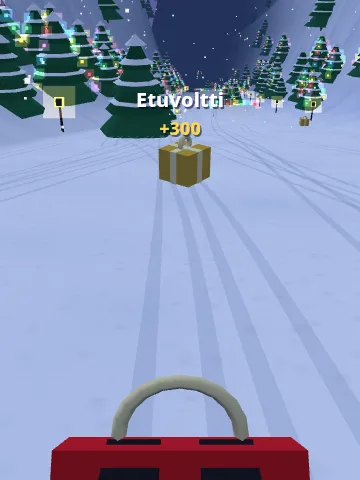
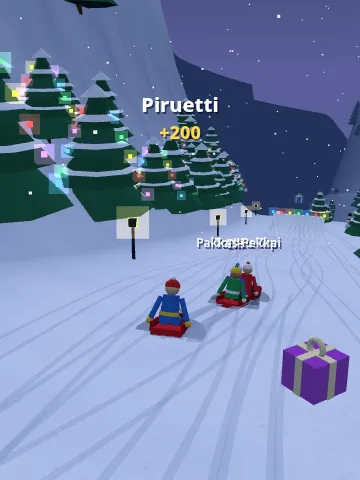
Pulkkamäki v4: the chase camera keeps up down a drop; diagrams, server test, thumb (#517)

diff --git a/games/pulkkamaki/v4/draw3d.js b/games/pulkkamaki/v4/draw3d.js
@@ -551,7 +551,10 @@ function chaseCamera(hill, me, cam, dt, still) {
   want[1] = Math.max(want[1], groundAt(hill, bs, bx) + 1.4);
   if (!V3.cam) V3.cam = want.slice();
   const k = still ? 1 : Math.min(1, dt * 6);
-  for (let i = 0; i < 3; i++) V3.cam[i] += (want[i] - V3.cam[i]) * (i === 1 ? Math.min(1, dt * 3.5) || 1 : k);
+  // Height follows softly, but the faster the further off it is (#517: down a drop or a steep
+  // stretch the sled falls metres in a moment, and a slow camera lost it under the screen's edge).
+  const ky = still ? 1 : Math.min(1, dt * (3.5 + 1.5 * Math.abs(want[1] - V3.cam[1])));
+  for (let i = 0; i < 3; i++) V3.cam[i] += (want[i] - V3.cam[i]) * (i === 1 ? ky : k);
   cam.position.set(...V3.cam);
   const ls = d.s + 9, lx = d.x + Math.sin(dir) * 9;
   cam.lookAt(...hillPoint(hill, ls, lx, Math.max(d.y - 1.5, groundAt(hill, ls, lx)) + 0.6));

diff --git a/docs/diagrams/tuloslistat.md b/docs/diagrams/tuloslistat.md
@@ -62,7 +62,7 @@ flowchart TD
 
 ## Boxes
 
-- **AiPelitScores.submit**: `public/scores.js`; a game version loads it with `data-game`, `data-order` and `data-corner`, and calls `submit(score)` when a round ends (Sormiskeitti v5, Voimistelu v3, Puhelinkoppi v2, Hiihto v2 and v3 (v3: classic times on `taso-N`, skating times on their own lists `luistelu-N`, both allowed by `GAMES` in `server/api.js`), Piano v1, Aitajuoksu v1 (v3: one list per race, 100 m hurdles still `main`, the others `200-aidat`, `400-aidat` and `<100|200|400>-tasainen`, allowed by `GAMES` in `server/api.js`), Kaaosrata v1, Trampoliini v1, Orava v1, Tikanheitto v1 (Pistekisa points only, no level; v2 also Mökkitikka on its own list `mokki`, chosen with `board()`; v7's harder throw (#400) on `mokki2`, the shelf's first, and `kisa2`, and the old lists renamed "Vanha Mökkitikka" and "Vanha Pistekisa"), Skuutti v1 (the most points in one minute's run, no level), Keihäänheitto v1 (the longest throw of a meet in metres, level `taso`), Korkeushyppy v1 (the highest bar cleared in a meet in metres, level `taso`), Seiväshyppy v1 (the highest bar cleared in a meet in metres, level `taso`), Moukarinheitto v1 (the longest throw of a meet in metres, level `taso`), Saappaanheitto v1 (#503: the longest boot throw of a meet in metres, level `taso`), Kuulantyöntö v1 (#268: the longest put of a meet in metres, level `taso`), Pituushyppy v1 (the longest legal jump of a meet in metres, level `taso`), Mäkihyppy v1 (#269: the total points of a two-round ski-jumping meet, level `taso`; v2's four-hill week (#283) on its own list `viikko`, chosen with `board()`; v9's two-hill week (#387) on `viikko2`, Mäkiviikko, the shelf's first, and `viikko` renamed "Mäkiviikko, 4 mäkeä"), Vuoristorata v1–v4 and v6+ (the fastest ride on `taso-N`) and v5 (#459: the most hands-up points on `elamys-N`), Yöajo v1 (the most points on one leg of the night drive, one list per leg `osa-N`, level: legs driven; `osa-1` to `osa-11` from v15, #440; the endless night's `loputon` from v16), Pilkkiminen v1 (#271: the biggest catch of a five-minute contest in grams, shown as kg, level `taso`; v2 and v3 the same list), Pasianssi v1 (the fastest completion time, with separate `veto1` and `veto3` lists for one- and three-card draw), Pulkkamäki v1 (#475: the most points in one run down a hill, one list per hill `maki-1` to `maki-3`, level: hills open, `auki`), Jäälautta v1 (#478: matches won alone against the computer, on `main`, level: floes open, `auki`; a room match sends nothing), Pomppukeppi v1 (#482: the most points in one erä alone, one list per board `kentta-1` to `kentta-3`, level: boards open, `auki`; a room match sends nothing), Lattia on laavaa v1 (#488: the seconds lasted alone in tenths, shown as `43,7 s`, one list per room `huone-1` to `huone-3` chosen with `board()`, level: rooms open, `auki`; a room round sends nothing), Eukonkanto v1 (#501: the fastest run of the wife-carrying course in seconds, each drop's +15 s included, on `main`, level `taso`; a race with friends sends the phone's own time from the host's results, never one marked as an estimate); Piano v2 and v3 also after every finished song). How each list reads lives in `GAMES` in `scores.js`, not in the games, so a change to a list needs no new version. Vuoristorata's `orderFor()` in `scores.js` and `scoreOrder()` in `server/api.js` keep `taso-N` times low-is-better and v5's `elamys-N` points high-is-better; the server accepts `taso-N` from v1–v4 and v6 onward, accepts `elamys-N` only from v5, and rejects either scoring family from the wrong version. Minigolf v1 adds `minigolf` on `main`: the lowest nine-hole total wins, shown as lyöntiä; `submit(total, true)` queues it without covering the result screen with the nickname prompt. Kiekkoammunta v1 adds independent `trap` and `skeet` score entries (Trap first, N/25); this box’s existing behavior is unchanged. Frisbeegolf v1 adds its own `main` entry to these registries: lowest strokes against par wins, displayed as `E`, `−2` or `+5`; this box keeps its existing behavior. Frisbeegolf now uses its separate `v3` leaderboard; versions 1–2 are not accepted there (#338). From v5 (#429) its rounds go to a new `v5` list, the shelf's first, and the `v3` list stays for v3–v4. Kaaosrata v6 (#454) adds `hihna`, `laatat` and `finaali` to its separate score entry; `main` keeps its old times and remains its first list. This box keeps its existing behaviour. Kaaosrata's course lists take only their own versions: `main` v1–v9, `hihna`, `laatat`, `finaali` v6, `hihna7`, `laatat7`, `finaali7` v7, `hihna8`, `laatat8`, `finaali8` v8–v9, and the v10 courses with heights (#493) `main10`, `hihna10`, `laatat10`, `finaali10`, with `main10` the shelf's first.
+- **AiPelitScores.submit**: `public/scores.js`; a game version loads it with `data-game`, `data-order` and `data-corner`, and calls `submit(score)` when a round ends (Sormiskeitti v5, Voimistelu v3, Puhelinkoppi v2, Hiihto v2 and v3 (v3: classic times on `taso-N`, skating times on their own lists `luistelu-N`, both allowed by `GAMES` in `server/api.js`), Piano v1, Aitajuoksu v1 (v3: one list per race, 100 m hurdles still `main`, the others `200-aidat`, `400-aidat` and `<100|200|400>-tasainen`, allowed by `GAMES` in `server/api.js`), Kaaosrata v1, Trampoliini v1, Orava v1, Tikanheitto v1 (Pistekisa points only, no level; v2 also Mökkitikka on its own list `mokki`, chosen with `board()`; v7's harder throw (#400) on `mokki2`, the shelf's first, and `kisa2`, and the old lists renamed "Vanha Mökkitikka" and "Vanha Pistekisa"), Skuutti v1 (the most points in one minute's run, no level), Keihäänheitto v1 (the longest throw of a meet in metres, level `taso`), Korkeushyppy v1 (the highest bar cleared in a meet in metres, level `taso`), Seiväshyppy v1 (the highest bar cleared in a meet in metres, level `taso`), Moukarinheitto v1 (the longest throw of a meet in metres, level `taso`), Saappaanheitto v1 (#503: the longest boot throw of a meet in metres, level `taso`), Kuulantyöntö v1 (#268: the longest put of a meet in metres, level `taso`), Pituushyppy v1 (the longest legal jump of a meet in metres, level `taso`), Mäkihyppy v1 (#269: the total points of a two-round ski-jumping meet, level `taso`; v2's four-hill week (#283) on its own list `viikko`, chosen with `board()`; v9's two-hill week (#387) on `viikko2`, Mäkiviikko, the shelf's first, and `viikko` renamed "Mäkiviikko, 4 mäkeä"), Vuoristorata v1–v4 and v6+ (the fastest ride on `taso-N`) and v5 (#459: the most hands-up points on `elamys-N`), Yöajo v1 (the most points on one leg of the night drive, one list per leg `osa-N`, level: legs driven; `osa-1` to `osa-11` from v15, #440; the endless night's `loputon` from v16), Pilkkiminen v1 (#271: the biggest catch of a five-minute contest in grams, shown as kg, level `taso`; v2 and v3 the same list), Pasianssi v1 (the fastest completion time, with separate `veto1` and `veto3` lists for one- and three-card draw), Pulkkamäki v1 (#475: the most points in one run down a hill, one list per hill `maki-1` to `maki-3`, from v4 (#517) `maki-5`, level: hills open, `auki`), Jäälautta v1 (#478: matches won alone against the computer, on `main`, level: floes open, `auki`; a room match sends nothing), Pomppukeppi v1 (#482: the most points in one erä alone, one list per board `kentta-1` to `kentta-3`, level: boards open, `auki`; a room match sends nothing), Lattia on laavaa v1 (#488: the seconds lasted alone in tenths, shown as `43,7 s`, one list per room `huone-1` to `huone-3` chosen with `board()`, level: rooms open, `auki`; a room round sends nothing), Eukonkanto v1 (#501: the fastest run of the wife-carrying course in seconds, each drop's +15 s included, on `main`, level `taso`; a race with friends sends the phone's own time from the host's results, never one marked as an estimate); Piano v2 and v3 also after every finished song). How each list reads lives in `GAMES` in `scores.js`, not in the games, so a change to a list needs no new version. Vuoristorata's `orderFor()` in `scores.js` and `scoreOrder()` in `server/api.js` keep `taso-N` times low-is-better and v5's `elamys-N` points high-is-better; the server accepts `taso-N` from v1–v4 and v6 onward, accepts `elamys-N` only from v5, and rejects either scoring family from the wrong version. Minigolf v1 adds `minigolf` on `main`: the lowest nine-hole total wins, shown as lyöntiä; `submit(total, true)` queues it without covering the result screen with the nickname prompt. Kiekkoammunta v1 adds independent `trap` and `skeet` score entries (Trap first, N/25); this box’s existing behavior is unchanged. Frisbeegolf v1 adds its own `main` entry to these registries: lowest strokes against par wins, displayed as `E`, `−2` or `+5`; this box keeps its existing behavior. Frisbeegolf now uses its separate `v3` leaderboard; versions 1–2 are not accepted there (#338). From v5 (#429) its rounds go to a new `v5` list, the shelf's first, and the `v3` list stays for v3–v4. Kaaosrata v6 (#454) adds `hihna`, `laatat` and `finaali` to its separate score entry; `main` keeps its old times and remains its first list. This box keeps its existing behaviour. Kaaosrata's course lists take only their own versions: `main` v1–v9, `hihna`, `laatat`, `finaali` v6, `hihna7`, `laatat7`, `finaali7` v7, `hihna8`, `laatat8`, `finaali8` v8–v9, and the v10 courses with heights (#493) `main10`, `hihna10`, `laatat10`, `finaali10`, with `main10` the shelf's first.
   Marjakori (#406) calls `submit(totalBest())`: the sum of every cleared level's best score, with `levelOf()` reading `ai-pelit:marjakori:taso`, the first unopened level.
 
 - **Jono puhelimessa: paras tulos per lista**: `localStorage` key `ai-pelit:_tulokset:jono`; only the best waiting score per list is kept, and `flush()` sends it on load, on `online`, and after each round. It leaves the queue only once the server took it (2xx), or answered 400 (a score it can never take).

diff --git a/docs/diagrams/pulkkamaki.md b/docs/diagrams/pulkkamaki.md
@@ -47,14 +47,14 @@ flowchart TD
 
 ## Boxes
 
-- **Valitse mäki, Laske!**: the menu (`showMenu()` in `ui.js`) offers three hills (Kotimäki, Kuusikko, Tunturi, `HILLS` in `world.js`); the next one opens once a run on the one before scores its `open` points (2500, 4000), saved as `ai-pelit:pulkkamaki:auki`. The last hill is saved as `ai-pelit:pulkkamaki:maki`. "📷 Silmistä" / "📷 Takaa" picks the view, saved as `ai-pelit:pulkkamaki:kamera` (`fp` or `back`); "👕 Asu" the outfit (`outfits.js`); "👥 Pelaa kavereiden kanssa" opens the room (`AiPelitRooms.open()`).
+- **Valitse mäki, Laske!**: the menu (`showMenu()` in `ui.js`) offers five hills from v4 (#517; Kotimäki, Kuusikko, Tunturi, Rotko, Jyrkänne, `HILLS` in `world.js`; sideways in two columns); the next one opens once a run on the one before scores its `open` points (2500, 4000, 3000, 4000). Rotko and Jyrkänne have long steep stretches (`steep`, eased in and out over their first and last quarter) and drops (`drop`, a cliff 2 m long); the sled leaves the snow when the ground falls more than 6 cm below where the slope behind it would have gone in one step (`step()`, from v4), and at over 2 m/s, so a drop throws a fast sled and a steep stretch keeps it on the snow, saved as `ai-pelit:pulkkamaki:auki`. The last hill is saved as `ai-pelit:pulkkamaki:maki`. "📷 Silmistä" / "📷 Takaa" picks the view, saved as `ai-pelit:pulkkamaki:kamera` (`fp` or `back`); "👕 Asu" the outfit (`outfits.js`); "👥 Pelaa kavereiden kanssa" opens the room (`AiPelitRooms.open()`).
 - **Huone: tekijä valitsee mäen, Aloita kierros**: `rooms.js` with `data-min="2" data-max="6"`; under the player list (`roomControls()` in `net.js`, `RM.extra()`) the host picks one of its open hills, the others see "Huoneen tekijä (<nimi>) valitsee mäen.". The host makes a sled for each player and computer sledders up to four sleds; every phone builds the same hill from the host's hill number (`buildHill(n)` is fixed per hill) and takes the sleds from the host's first message.
-- **Sormi vetää vasemmalle tai oikealle: pulkka kääntyy**: on the snow, how far the finger is from where it touched down sets how fast the sled turns (`steerOf()` in `ui.js`); when the finger lifts the sled keeps the heading it has (Eero's choice: no steering by itself), also through the course's bends, at most about 75° from the course (`MAX_YAW`). After a fall it points down the course again. Gravity gives the speed, and turning hard brakes a little.
-- **Ilmassa: pyyhkäisyt tekevät temput**: in the air a swipe starts a trick: up a front flip, down a back flip, left or right a spin; holding a finger still is a grab (Superman) that scores while held. A trick plays out over a set time, and the next one may follow once it is done.
+- **Sormi vetää vasemmalle tai oikealle: pulkka kääntyy**: on the snow, how far the finger is from where it touched down sets how fast the sled turns (`steerOf()` in `ui.js`); when the finger lifts the sled keeps the heading it has (Eero's choice: no steering by itself), also through the course's bends, at most about 75° from the course (`MAX_YAW`). After a fall it points down the course again. Gravity gives the speed, and turning hard brakes a little. From v4 (#517) a sled on the snow under `PUSH_BELOW` (3 m/s), not falling and not over the line, is pushed on by each touch (`pushOff()` in `world.js`, called on `pointerdown` in `ui.js`): +1.6 m/s, at most up to 4.2 m/s, with both arms reaching to the snow; the HUD says "Napauta: työnnä käsillä" under 2.2 m/s. The computer pushes too below 1.5 m/s.
+- **Ilmassa: pyyhkäisyt tekevät temput**: in the air a swipe starts a trick: up a front flip, down a back flip, left or right a spin; holding a finger still is a grab (Superman) that scores while held. A trick plays out over a set time, and the next one may follow once it is done. From v4 (#517) a trick is not begun, nor queued, when the predicted time to the snow (`timeToLand()`) is less than what is left of the trick turning now plus `LAND_DONE` of the new one (`trickFits()`), and a grab not when less than `GRAB_LATE` (0.45 s) is left; the swipe then shows "Ei ehdi!". The computer's tricks pass the same check.
 - **Temppu valmiina ja ote irti alastulossa?**: `land()` in `world.js`: landing with a grab still held, or with a trick less than `LAND_DONE` (80 %) done, is a fall; a trick at least that far done counts as finished. There is no separate angle check. A generous margin, so a near miss lands (docs/making-games.md, "Be generous with timing").
 - **Pisteet: temppu kertaa putki**: each trick has its points; several in one jump multiply them, and landing clean jumps in a row raises the streak (putki), which a fall resets.
 - **Kaatuminen: vauhti pois, putki katkeaa**: the sled tips and the rider rolls in the snow for about a second; the trick in the air scores nothing.
 - **Lahjapaketti**: presents float above some jumps and lie by the track; each one caught adds points.
 - **Odotetaan muita, enintään 30 s ensimmäisen jälkeen**: `net.js`. Each phone slides its own sled and sends it to the host ten times a second (once finished, still ten times a second until it stands past the line, from v3; then each second until the host has it); the host slides the computer's sleds and sends every sled back ten times a second. From v3 (#480) every phone draws the others from `lib/sulava-1` a moment back, gliding between the spots heard (`asDrawn()` in `net.js`, swapped in for `render3d()` and `drawHUD()` in `ui.js`'s `frame()` and back after); the track keeps the place, heading and height and the turns drawn (a trick's flip and spin, the roll of a fall, the lean), and nothing carries another sled on between messages any more (v2's `coast()`), so a dropped phone's sled waits at its newest spot, and the host takes the phone's last real state back when it returns (`hello`). A guest's `p` and the host's `s` carry the sending phone's run clock (`st`, `runClock()`: `AiPelitSulava.now()` standing still while `RM.paused`, and the tracks hear and draw by it, so a pause holds every drawn sled where it is; the phones hear a pause a moment apart, so a spot heard while paused waits in the sled's `held` list, emptied on a reset, and goes on its track when the pause ends here (`heldOn()`), heard no sooner than its stamp plus the lag of the spot before the pause (`rec.lag`), so its stamp, ahead of the held clock, does not make the track draw the sled further on; the clock goes on 1 ms past the paused moment, so the first frame after it has moved on and the track eases the held spots in instead of drawing them at once; the game's rules read the newest spot at once), and the host's row of a friend's sled carries the friend's own stamp (`f`) while the friend drives it; a track starts again (`heardSpot()`) when that clock changes, as the computer takes over a friend's sled or gives it back, and the host resets it on `back`; it also starts again where a fall ends (`fell`), as the roll drops from about 1.5 turns back to 0 there (`roll` is blended straight, not as an angle). A move over `jump` = 25 m between two spots (about a second at the top speed) is drawn at once. Sleds pass through each other. The run ends on the host when everyone is down, or `LATE` = 30 s after the first (`ff` in the host's state, so every phone's HUD counts it down). While a phone is away the run waits (`RM.paused`); "Jatka ilman heitä" lets the host's computer drive its sled (`continue`), which marks it 🤖 for good; a sled already over the line is left as it is. Each take-over raises the sled's counter (`own`): a phone whose own sled comes with a higher one carries on from the host's state (after a reload or a drop, `hello`), and the host ignores a state with a lower one. A phone back after the computer drove its sled takes up the computer's run, not its own older state. A sled's message carries what its jump has earned so far (tricks done, one waiting, the grab's time), so a phone reloaded in the air still scores them on landing. A grab belongs to the finger holding it: whenever a sled changes hands (a guest taking the host's state of its own sled, the host's `hello`, `continue` and `back`), `handOver()` in `world.js` lets go of a grab still held; one held at least `GRAB_MIN` (0.2 s) counts like a finished trick, the jump's other tricks stay, and nobody falls for it (v2).
 - **Tulokset kaikille, takaisin huoneeseen**: the host's `deliver()` of every sled's points, finished sleds first; each phone shows them on its end screen, saves its record and high score once (`once()`) on the hill the result names (a phone back only after the end has not heard the hill otherwise), not when the computer drove its sled, and "Takaisin huoneeseen" shows the order on the room screen (`RM.note()`, `RM.backToRoom()`). The host sends the result again to a phone back after a reload (`hello`).
-- **Mäkikohtainen tuloslista**: `saveRun()` in `ui.js`: `AiPelitScores.submit()` on the hill's own list (`board('maki-<n>')`, allowed by `GAMES` in `server/api.js` as `maki-1` to `maki-3`), most points first, with hills open (`auki`) as the level (`GAMES` in `public/scores.js`; at least 1, since the game saves `auki` only once a second hill opens). Alone the run is saved at once; in a room from the host's result.
+- **Mäkikohtainen tuloslista**: `saveRun()` in `ui.js`: `AiPelitScores.submit()` on the hill's own list (`board('maki-<n>')`, allowed by `GAMES` in `server/api.js` as `maki-1` to `maki-5`, from v4), most points first, with hills open (`auki`) as the level (`GAMES` in `public/scores.js`; at least 1, since the game saves `auki` only once a second hill opens). Alone the run is saved at once; in a room from the host's result.
